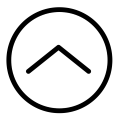
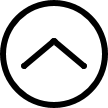
better media breakpoints and vector up-arrow

diff --git a/css/menu.css b/css/menu.css
@@ -17,7 +17,7 @@ label .hamburger {
   left: 50px;
   width: 30px;
   height: 3px;
-  background: #000;
+  background: #414042;
   display: block;
   -webkit-transform-origin: center;
           transform-origin: center;
@@ -33,7 +33,7 @@ label .hamburger:after, label .hamburger:before {
   display: block;
   width: 100%;
   height: 100%;
-  background: #000;
+  background: #414042;
 }
 
 label .hamburger:before {
@@ -131,8 +131,8 @@ label input:checked + .menu .hamburger:before {
 }
 
 /* MARK: Mobile */
-@media only screen and (max-width: 1024px) {
-  label a {
+@media only screen and (max-width: 900px) {
+  #menuList a {
       font-size: 3em;
   }
 }

diff --git a/css/indexStyles.css b/css/indexStyles.css
@@ -34,7 +34,7 @@ a, h1, h3, p {
     color: #414042;
 }
 
-a {
+h1 a {
     text-decoration: none;
 }
 
@@ -204,7 +204,7 @@ a {
 }
 
 /* MARK: Mobile */
-@media only screen and (max-width : 1024px) {
+@media only screen and (max-width: 900px) {
     /* For mobile phones: */
     .fp-responsive div .section:not(.introSection) {
         height: auto !important;
@@ -287,5 +287,12 @@ a {
         text-align: left !important;
         margin-left: auto;
         margin-right: auto;
+    }
+}
+
+/* iPad landscape */
+@media only screen and (max-width: 1024px) { 
+    h1:not(#hello) {
+        font-size: 3em !important;
     }
 }

diff --git a/js/indexAnimate.js b/js/indexAnimate.js
@@ -2,7 +2,7 @@
 $(document).ready(function() {
     $('#fullpage').fullpage({
         onLeave: function(index, nextIndex, direction) {
-            if (window.innerWidth > 1023) {
+            if (window.innerWidth >= 900) {
                 animateSlide(index, nextIndex);
             } else {
                 /* Mobile */
@@ -10,7 +10,7 @@ $(document).ready(function() {
             }
         },
         navigation: true,
-        responsiveWidth: 1024
+        responsiveWidth: 900
     });
 
     // Arrow click, move down a section

diff --git a/js/menu.js b/js/menu.js
@@ -38,12 +38,12 @@ document.addEventListener("DOMContentLoaded", function(event) {
     document.body.appendChild(menuList);
 
     // Add button scroll-to-top, only on Desktop
-    if (window.innerWidth <= 1024) {
+    if (window.innerWidth < 900) {
         return;
     }
     var btn = document.createElement('img');
     btn.classList.add("noModal");
-    btn.src = "images/up arrow.png";
+    btn.src = "images/up-arrow.svg";
     btn.id = "upArrow";
     btn.onclick = function() {
         window.scroll({

diff --git a/css/imageModal.css b/css/imageModal.css
@@ -1,6 +1,6 @@
 /* Style the Image Used to Trigger the Modal */
 /* Note: only on Desktop! */
-@media only screen and (min-width: 1024px) {
+@media only screen and (min-width: 900px) {
     img:not(.noModal) {
         cursor: pointer;
     }
@@ -60,7 +60,7 @@
 }
 
 /* 100% Image Width on Smaller Screens */
-@media only screen and (max-width: 700px) {
+@media only screen and (max-width: 900px) {
     .modal-content {
         width: 100%;
     }

diff --git a/css/customAnimate.css b/css/customAnimate.css
@@ -68,7 +68,7 @@
     100% { -webkit-transform: translateX(50vw); }
 }
 
-@media only screen and (max-width: 1024px) { 
+@media only screen and (max-width: 900px) { 
     /* Mobile */
     .slide-left {
         transform: none;

diff --git a/css/cols.css b/css/cols.css
@@ -25,7 +25,7 @@
     margin-bottom: 0.5em;
 }
 
-@media only screen and (min-width: 768px) {
+@media only screen and (min-width: 900px) {
     /* For desktop: */
     .col-1_5 {width: 4.17%;}
     .col-1 {width: 8.33%;}

diff --git a/js/imageModal.js b/js/imageModal.js
@@ -1,7 +1,7 @@
 
 // MARK: For the image modal, only on desktop!
 document.addEventListener("DOMContentLoaded", function(event) { 
-	if (window.innerWidth <= 1023) {
+	if (window.innerWidth < 900) {
 		return;
 	}
 

diff --git a/css/content.css b/css/content.css
@@ -49,7 +49,7 @@ img {
 	width: 100%;
 }
 
-@media only screen and (max-width: 768px) { 
+@media only screen and (max-width: 900px) { 
 	h3 {
 		margin-bottom: -4em;
 	}
